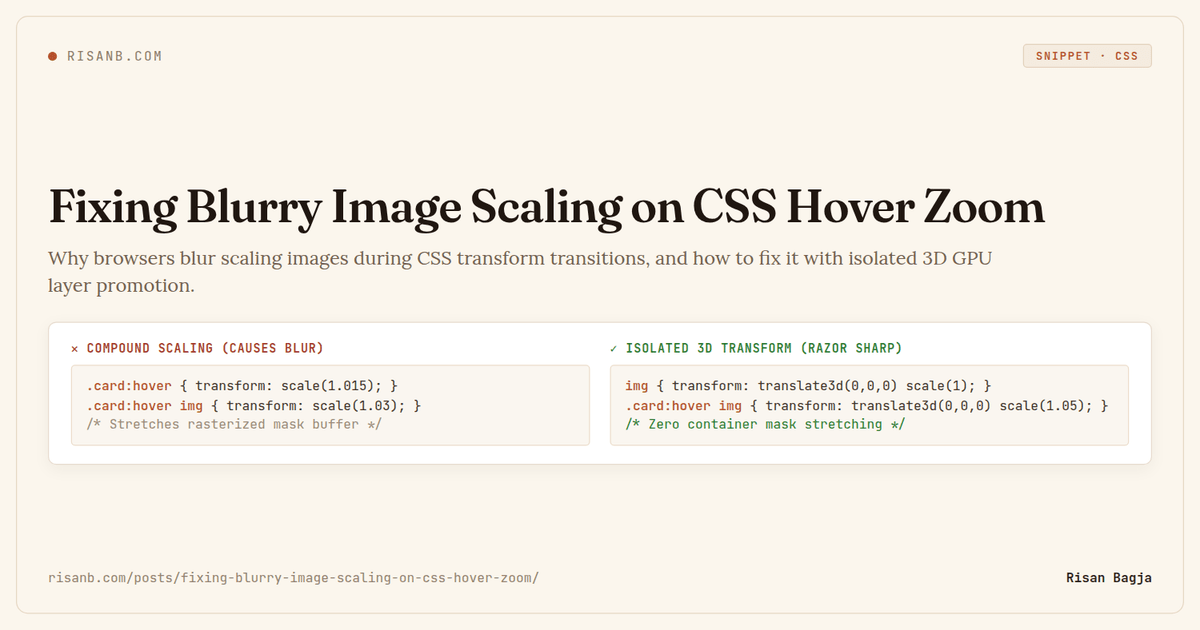
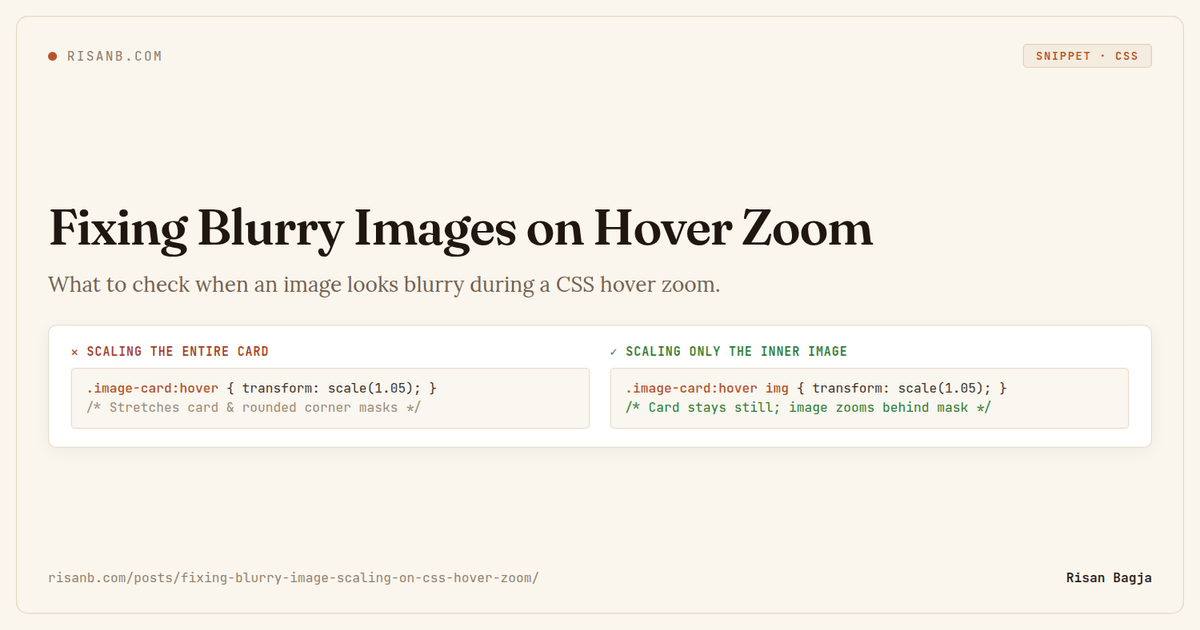
Update post tone to personal experience and refresh OG social card

Changed region(s): [[0.0617, 0.5127, 0.9558, 0.7238], [0.0308, 0.3016, 0.8942, 0.4825]]

diff --git a/content/code/fixing-blurry-image-scaling-on-css-hover-zoom.md b/content/code/fixing-blurry-image-scaling-on-css-hover-zoom.md
@@ -1,74 +1,43 @@
 ---
-title: Fixing Blurry Image Scaling on CSS Hover Zoom
+title: Fixing Blurry Images on Hover Zoom
 date: 2026-09-29T10:00:00+07:00
-description: Why browsers blur scaling images during CSS transform transitions, and how to fix it with isolated 3D GPU layer promotion.
+description: What to check when an image looks blurry during a CSS hover zoom.
 categories: [snippet]
 tags: [css]
 images: [/posts/fixing-blurry-image-scaling-on-css-hover-zoom/og.png]
 ---
-Have you ever added a subtle zoom effect on image hover (`transform: scale(1.05)` with `transition: transform ...`) only to notice a weird rendering artifact? The image is razor-sharp at rest. But during the scaling transition, it turns fuzzy and blurry, then suddenly snaps back to crystal-sharp once the animation stops.
 
-Here is why that happens in modern browser engines (Chromium, WebKit, Gecko) and how to fix it cleanly.
+I added a slight zoom to an image on hover. It looked sharp before the animation and sharp again when it stopped, but blurry for the half-second in between.
 
-## Why Browsers Blur Scaling Images
+The browser can animate `transform: scale()` by enlarging pixels it has already drawn. That’s fast, though the image may look softer while it moves. Scaling a small image makes the effect easier to spot.
 
-When an element animates with `transform: scale()`, browsers optimize the transition by offloading it to the GPU:
-
-1. **Pre-rasterized GPU textures**: The browser takes a snapshot of the image at its unscaled $1\times$ size and caches it as a GPU texture quad.
-2. **Bilinear texture interpolation**: While the transition runs at 60fps, the GPU stretches that static bitmap texture using bilinear filtering instead of re-rasterizing the original image on every frame. Stretching a $1\times$ bitmap texture causes subpixel blurring mid-flight.
-3. **Re-rasterization on completion**: When the transition stops, the browser realizes the element is stationary, re-rasterizes it at the new pixel boundary, and anti-aliases it—causing the sudden snap back to sharpness.
-
-The problem is compounded if you scale an outer container that has `overflow: hidden` and `border-radius`: Chromium forces the clipped figure into an offscreen mask buffer. Stretching that mask buffer stretches both the image and the anti-aliased border radius together.
-
-## The Solution
-
-To achieve smooth, razor-sharp zoom without mid-animation blur, follow three rules:
-
-### 1. Scale Only the Image, Never the Clipped Container
-
-Keep the parent card or frame completely static. The container provides the `overflow: hidden` and `border-radius` mask on the physical pixel grid without ever being stretched. Only scale the inner `<img>`.
-
-### 2. Promote the Image to a 3D Compositing Layer
-
-Initialize the image with `transform: translate3d(0, 0, 0) scale(1)`, `will-change: transform;`, and `backface-visibility: hidden;`. This instructs the compositor to allocate a dedicated hardware layer ahead of time, avoiding layer-creation jank and subpixel snapping.
-
-### 3. Ensure Sufficient Source Pixel Density
-
-If your responsive image (`srcset` / `sizes`) delivers an image that only matches the container's exact display width, scaling up by 5% forces the GPU to invent pixels. Ensure your `sizes` attribute or image asset provides a comfortable 1.5× to 2× density headroom (e.g. for high-DPI and Retina screens).
-
-## The CSS Snippet
+What helped was keeping the card still and scaling only the image inside it:
 
 ```css
-/* 1. The container stays static on the pixel grid */
 .image-card {
-  position: relative;
   overflow: hidden;
   border-radius: 4px;
-  /* Optional: elevate shadow on hover without moving geometry */
-  transition: box-shadow 0.3s ease;
 }
 
-.image-card:hover {
-  box-shadow: 0 10px 28px rgba(0, 0, 0, 0.16);
-}
-
-/* 2. The image uses hardware-accelerated 3D transform */
 .image-card img {
+  display: block;
   width: 100%;
   height: 100%;
   object-fit: cover;
-  display: block;
-  transform: translate3d(0, 0, 0) scale(1);
-  backface-visibility: hidden;
-  -webkit-backface-visibility: hidden;
-  will-change: transform;
-  transition: transform 0.45s cubic-bezier(0.2, 0.8, 0.2, 1);
+  transition: transform 0.45s ease;
 }
 
-/* 3. Scale only the inner image on hover */
 .image-card:hover img {
-  transform: translate3d(0, 0, 0) scale(1.05);
+  transform: scale(1.05);
+}
+
+@media (prefers-reduced-motion: reduce) {
+  .image-card img {
+    transition: none;
+  }
 }
 ```
 
-With this pattern, the outer frame mask stays locked to physical screen pixels, while the inner image zooms smoothly with ample source pixel density—remaining razor-sharp before, during, and after the hover transition.
+The card keeps its rounded corners in place while the image moves behind them. I’d also check the image file: if it barely has enough pixels to fill the card, zooming it will stretch those pixels further. With responsive images, make sure `srcset` offers a large enough file and `sizes` reflects the card’s actual width.
+
+You’ll sometimes see `translate3d(0, 0, 0)` or `will-change: transform` recommended for this. They can change how a browser handles the animation, but they aren’t a reliable sharpness switch. I’d try the simpler version first and only add either one if it visibly helps in the browser where you’re seeing the blur.
